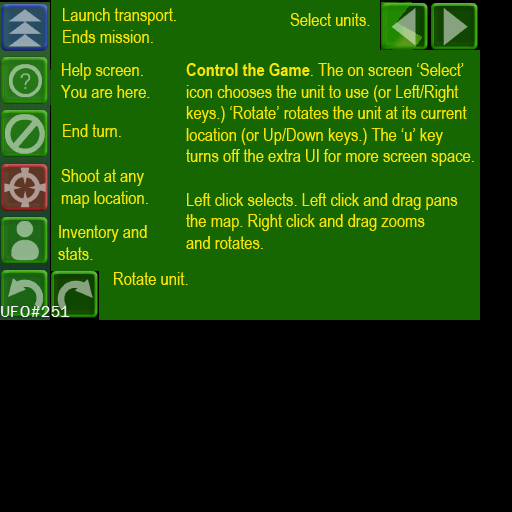
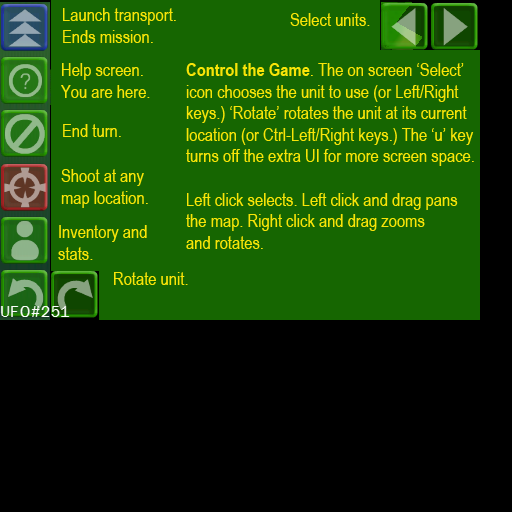
Fixed help. Tweaked rotation UI. Fixed minor UI bugs.

Changed region(s): [[0.5, 0.25, 0.9375, 0.2812]]

diff --git a/trunk/game/inventory.cpp b/trunk/game/inventory.cpp
@@ -161,45 +161,52 @@ int Inventory::GetDeco( int s0 ) const
 void Inventory::GetDamageReduction( DamageDesc* dd )
 {
 	float base = 1.0f;
+	bool hasArmor = false;
 
 	if ( slots[ARMOR_SLOT].IsArmor() ) {
 		if ( StrEqual( slots[ARMOR_SLOT].Name(), "ARM-1" ) ) {
 			base = ARM1;
+			hasArmor = true;
 		}
 		else if ( StrEqual( slots[ARMOR_SLOT].Name(), "ARM-2" ) ) {
 			base = ARM2;
+			hasArmor = true;
 		}
 		else if ( StrEqual( slots[ARMOR_SLOT].Name(), "ARM-3" ) ) {
 			base = ARM3;
+			hasArmor = true;
 		}
 	}
 	dd->Set( base, base, base );
-	
-	bool k=false, e=false, i=false;
-	for( int i=GENERAL_SLOT; i<NUM_SLOTS; ++i ) {
-		if ( slots[i].IsSomething() && StrEqual( slots[i].Name(), "Shield" ) ) {
-			e = true;
-			break;
+
+	// Armor modifiers. Require Armor to modify.
+	if ( hasArmor ) {
+		bool k=false, e=false, i=false;
+		for( int i=GENERAL_SLOT; i<NUM_SLOTS; ++i ) {
+			if ( slots[i].IsSomething() && StrEqual( slots[i].Name(), "Shield" ) ) {
+				e = true;
+				break;
+			}
 		}
-	}
-	for( int i=GENERAL_SLOT; i<NUM_SLOTS; ++i ) {
-		if ( slots[i].IsSomething() && StrEqual( slots[i].Name(), "Ablate" ) ) {
-			i = true;
-			break;
+		for( int i=GENERAL_SLOT; i<NUM_SLOTS; ++i ) {
+			if ( slots[i].IsSomething() && StrEqual( slots[i].Name(), "Ablate" ) ) {
+				i = true;
+				break;
+			}
 		}
-	}
-	for( int i=GENERAL_SLOT; i<NUM_SLOTS; ++i ) {
-		if ( slots[i].IsSomething() && StrEqual( slots[i].Name(), "Fiber" ) ) {
-			k = true;
-			break;
+		for( int i=GENERAL_SLOT; i<NUM_SLOTS; ++i ) {
+			if ( slots[i].IsSomething() && StrEqual( slots[i].Name(), "Fiber" ) ) {
+				k = true;
+				break;
+			}
 		}
+		if ( k )
+			dd->kinetic -= ARM_EXTRA;
+		if ( e )
+			dd->energy -= ARM_EXTRA;
+		if ( i )
+			dd->incind -= ARM_EXTRA;
 	}
-	if ( k )
-		dd->kinetic -= ARM_EXTRA;
-	if ( e )
-		dd->energy -= ARM_EXTRA;
-	if ( i )
-		dd->incind -= ARM_EXTRA;
 }
 
 

diff --git a/trunk/game/battlescene.cpp b/trunk/game/battlescene.cpp
@@ -968,20 +968,28 @@ void BattleScene::SetFireWidget()
 
 		// weird syntax aids debugging.
 		bool enable = true;
+		enable = enable &&  item->IsSomething();
 		enable = enable &&	item->IsWeapon();
 		enable = enable &&	item->IsWeapon()->SupportsType( select, type );
 		enable = enable &&	(nShots <= rounds );
 		enable = enable &&  unit->TU() >= unit->FireTimeUnits( select, type );
 
-		unit->FireStatistics( select, type, distToTarget, &fraction, &anyFraction, &tu, &dptu );
-		// Never show 100% in the UI:
-		if ( fraction > 0.95f )
-			fraction = 0.95f;
-		if ( anyFraction > 0.98f )
-			anyFraction = 0.98f;
+		if ( item->IsSomething() && item->IsWeapon() && item->IsWeapon()->SupportsType( select, type ) ) {
+			unit->FireStatistics( select, type, distToTarget, &fraction, &anyFraction, &tu, &dptu );
 
-		SNPrintf( buffer0, 32, "%s %d%%", wid->fireDesc[i], (int)LRintf( anyFraction*100.0f ) );
-		SNPrintf( buffer1, 32, "%d/%d", nShots, rounds );
+			// Never show 100% in the UI:
+			if ( fraction > 0.95f )
+				fraction = 0.95f;
+			if ( anyFraction > 0.98f )
+				anyFraction = 0.98f;
+
+			SNPrintf( buffer0, 32, "%s %d%%", wid->fireDesc[i], (int)LRintf( anyFraction*100.0f ) );
+			SNPrintf( buffer1, 32, "%d/%d", nShots, rounds );
+		}
+		else {
+			*buffer0 = 0;
+			*buffer1 = 0;
+		}
 		
 		int index = 2-i;
 		fireWidget->SetText( index, buffer0, buffer1 );

diff --git a/trunk/win32/main.cpp b/trunk/win32/main.cpp
@@ -216,6 +216,8 @@ int main( int argc, char **argv )
 		{
 			case SDL_KEYDOWN:
 			{
+				SDLMod sdlMod = SDL_GetModState();
+
 				switch ( event.key.keysym.sym )
 				{
 					case SDLK_ESCAPE:
@@ -234,20 +236,19 @@ int main( int argc, char **argv )
 
 #if !defined( MAPMAKER )
 					case SDLK_RIGHT:
-						GameHotKey( game, GAME_HK_NEXT_UNIT );
+						if ( sdlMod & KMOD_RCTRL )
+							GameHotKey( game, GAME_HK_ROTATE_CW );
+						else
+							GameHotKey( game, GAME_HK_NEXT_UNIT );
 						break;
 
 					case SDLK_LEFT:
-						GameHotKey( game, GAME_HK_PREV_UNIT );
+						if ( sdlMod & KMOD_RCTRL )
+							GameHotKey( game, GAME_HK_ROTATE_CCW );
+						else
+							GameHotKey( game, GAME_HK_PREV_UNIT );
 						break;
 
-					case SDLK_UP:
-						GameHotKey( game, GAME_HK_ROTATE_CCW );
-						break;
-
-					case SDLK_DOWN:
-						GameHotKey( game, GAME_HK_ROTATE_CW );
-						break;
 					case SDLK_u:
 						GameHotKey( game, GAME_HK_TOGGLE_ROTATION_UI | GAME_HK_TOGGLE_NEXT_UI );
 						break;

diff --git a/trunk/engine/uirendering.cpp b/trunk/engine/uirendering.cpp
@@ -168,6 +168,9 @@ void UIBar::Draw()
 	glEnable( GL_TEXTURE_2D );
 	glBindTexture( GL_TEXTURE_2D, texture->GLID() );
 
+	glMatrixMode( GL_MODELVIEW );
+	glPushMatrix();
+
 	GLASSERT( screenport.UIMode() );
 	glTranslatef( (float)origin.x, (float)origin.y, 0.0f );
 
@@ -181,6 +184,7 @@ void UIBar::Draw()
 	drawCalls++;
 	CHECK_GL_ERROR;
 		
+	glPopMatrix();
 	glEnableClientState( GL_NORMAL_ARRAY );
 	//glDisableClientState( GL_COLOR_ARRAY );
 	glDisable( GL_BLEND );
